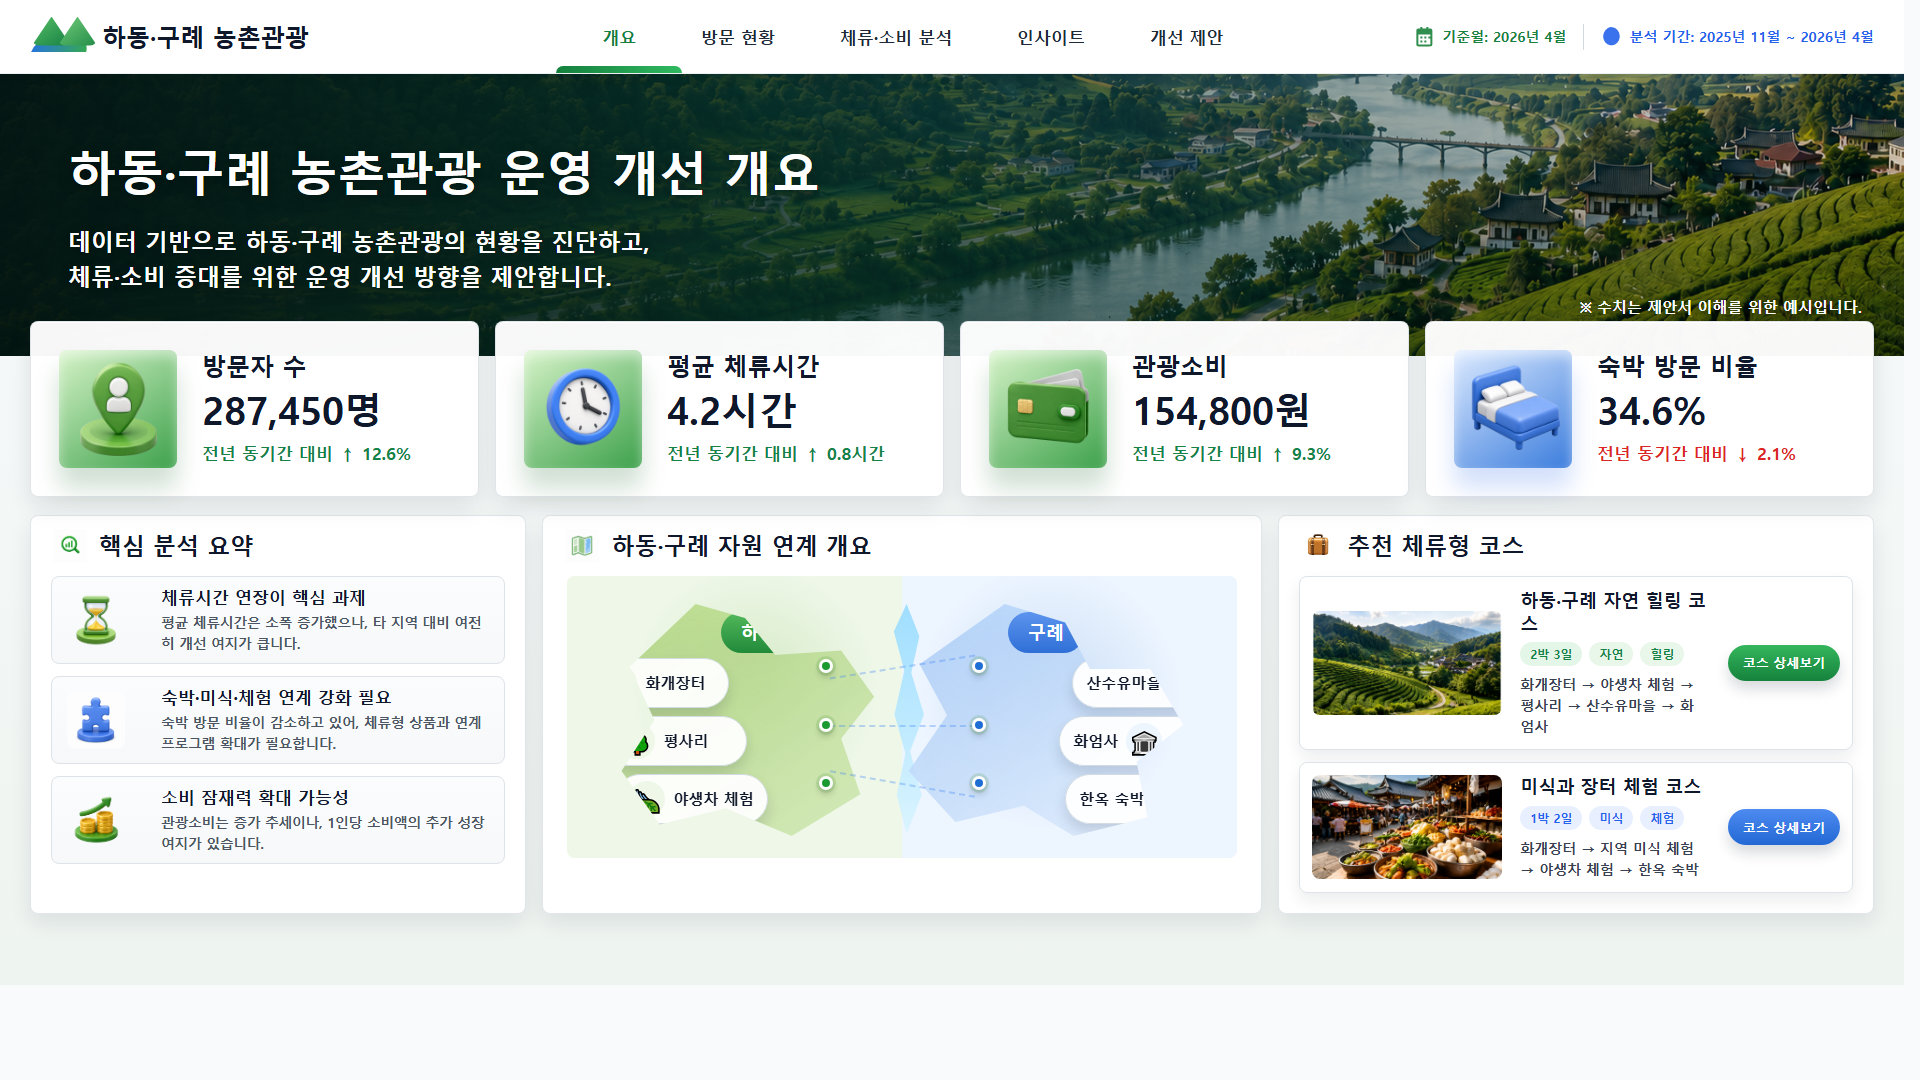
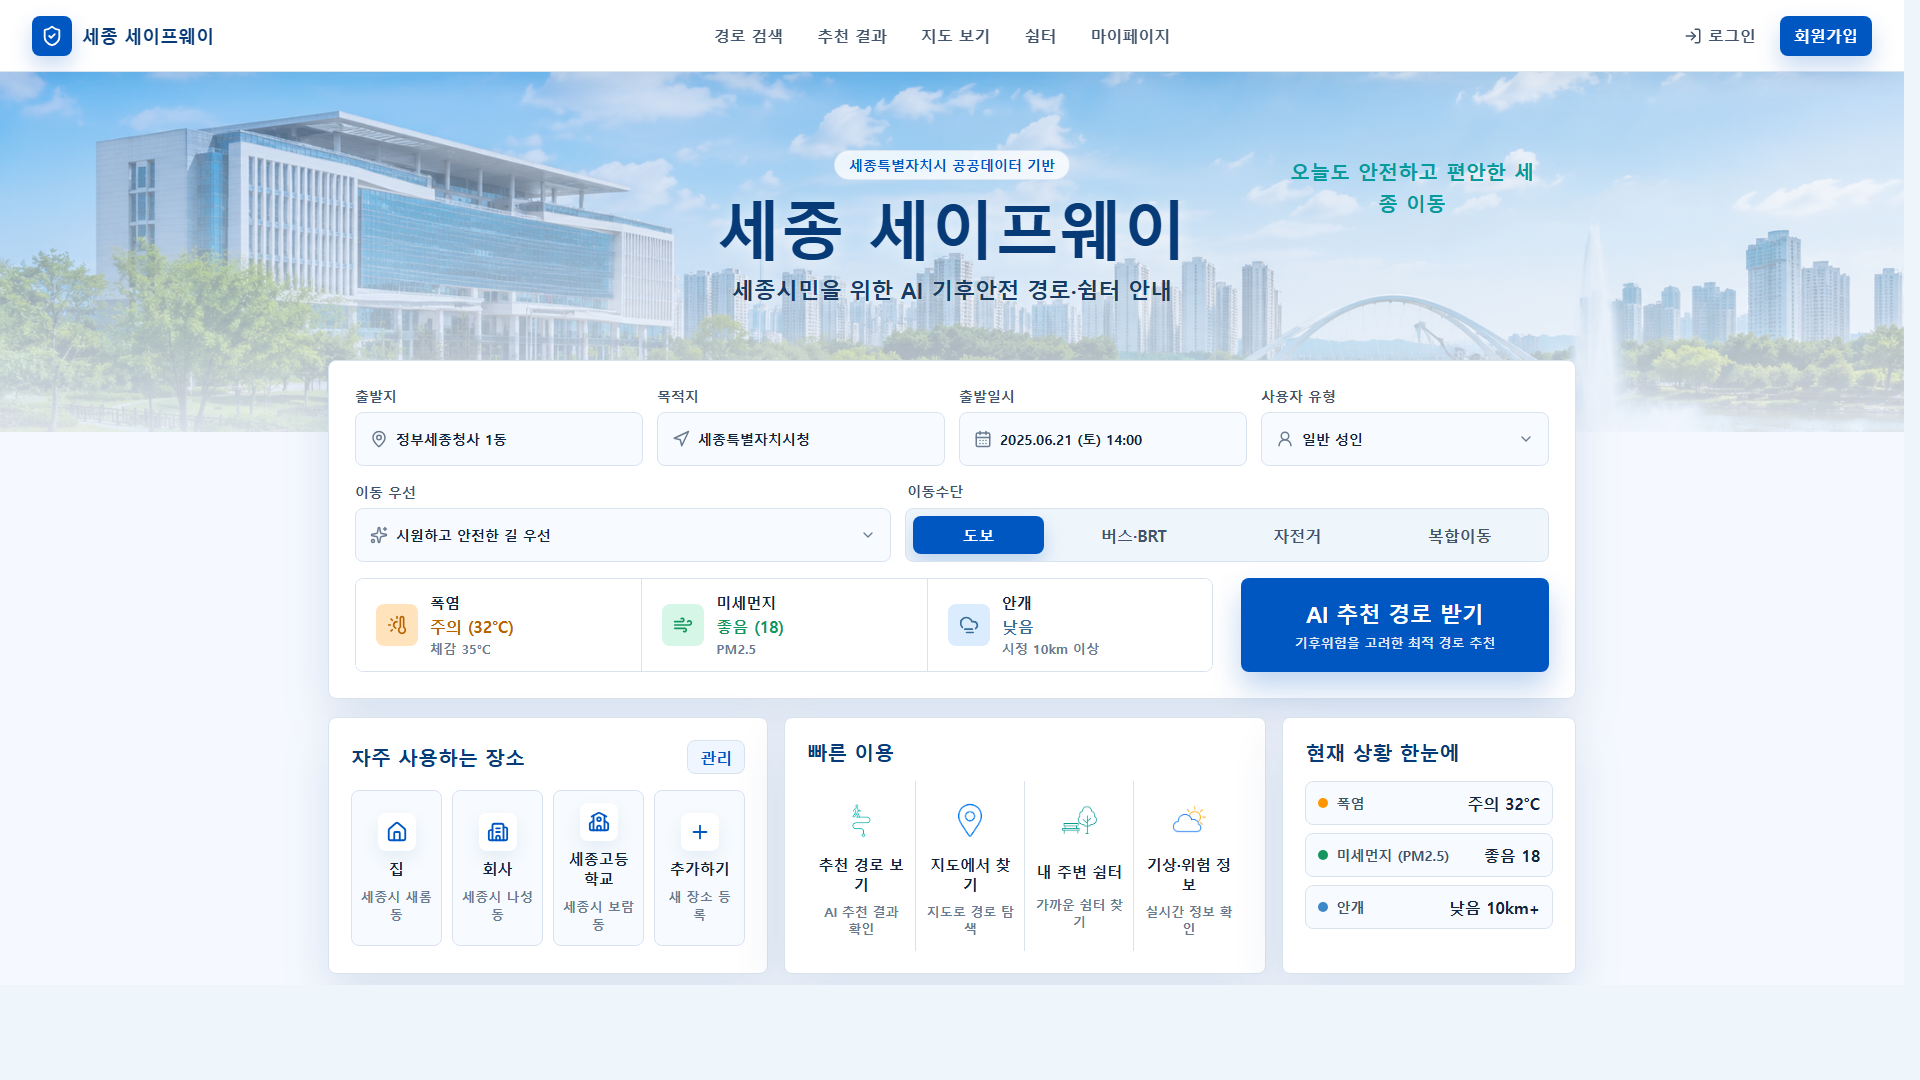
Polish overview dashboard presentation

diff --git a/src/index.css b/src/index.css
@@ -1,6 +1,9 @@
+@import "pretendard/dist/web/variable/pretendardvariable.css";
 @import "tailwindcss";
 
 :root {
+  --font-ui: "Pretendard Variable", Pretendard, "SUIT Variable", SUIT, "Wanted Sans Variable", "Wanted Sans",
+    "Noto Sans KR", "Apple SD Gothic Neo", "Malgun Gothic", sans-serif;
   --page-bg: #f8fafc;
   --card-bg: #ffffff;
   --title: #0f172a;
@@ -11,12 +14,11 @@
   --blue: #2563eb;
   --red: #dc2626;
   --border: #e5e7eb;
-  font-family:
-    Inter, ui-sans-serif, system-ui, -apple-system, BlinkMacSystemFont, "Segoe UI",
-    "Noto Sans KR", "Apple SD Gothic Neo", "Malgun Gothic", sans-serif;
+  font-family: var(--font-ui);
   color: var(--text);
   background: var(--page-bg);
   font-synthesis: none;
+  font-variant-numeric: tabular-nums;
   letter-spacing: 0;
   text-rendering: optimizeLegibility;
   -webkit-font-smoothing: antialiased;
@@ -32,6 +34,7 @@ body {
   min-height: 100vh;
   margin: 0;
   background: var(--page-bg);
+  font-family: var(--font-ui);
 }
 
 button {
@@ -459,6 +462,12 @@ img {
   font-size: 17px;
   font-weight: 900;
   line-height: 1.25;
+  overflow-wrap: anywhere;
+  word-break: keep-all;
+}
+
+.insightItem > div {
+  min-width: 0;
 }
 
 .insightItem p {
@@ -467,6 +476,8 @@ img {
   font-size: 13.5px;
   font-weight: 650;
   line-height: 1.55;
+  overflow-wrap: anywhere;
+  word-break: keep-all;
 }
 
 .resourceMapFrame {
@@ -681,11 +692,13 @@ img {
 
 .courseCard {
   display: grid;
-  grid-template-columns: 190px minmax(0, 1fr) 116px;
+  grid-template-columns: 190px minmax(0, 1fr) 48px;
   gap: 18px;
   align-items: center;
   min-height: 128px;
+  min-width: 0;
   padding: 12px;
+  overflow: hidden;
   background: #fff;
   border: 1px solid #dde3e8;
   border-radius: 8px;
@@ -719,6 +732,7 @@ img {
   font-size: 18px;
   font-weight: 900;
   line-height: 1.25;
+  white-space: nowrap;
 }
 
 .badgeRow {
@@ -757,22 +771,25 @@ img {
   font-size: 14px;
   font-weight: 750;
   line-height: 1.5;
+  overflow-wrap: anywhere;
+  word-break: keep-all;
 }
 
 .courseButton {
-  display: inline-flex;
-  align-items: center;
-  justify-content: center;
-  justify-self: end;
-  width: 112px;
-  min-height: 36px;
-  padding: 0 12px;
+  display: grid;
+  place-items: center;
+  justify-self: center;
+  width: 42px;
+  min-width: 42px;
+  max-width: 42px;
+  height: 42px;
+  min-height: 42px;
+  padding: 0;
   color: #fff;
   border-radius: 999px;
   cursor: pointer;
-  font-size: 13px;
+  font-size: 25px;
   font-weight: 900;
-  white-space: nowrap;
   box-shadow: 0 8px 14px rgba(15, 23, 42, 0.16);
 }
 
@@ -834,7 +851,7 @@ img {
   }
 
   .courseCard {
-    grid-template-columns: 150px minmax(0, 1fr) 112px;
+    grid-template-columns: 150px minmax(0, 1fr) 48px;
   }
 }
 
@@ -1012,30 +1029,70 @@ img {
     font-size: 14px;
   }
 
+  .insightItem {
+    grid-template-columns: 54px minmax(0, 1fr);
+    gap: 11px;
+    min-height: 0;
+    padding: 12px;
+  }
+
+  .insightIcon,
+  .insightIconImage {
+    width: 48px;
+    height: 48px;
+  }
+
+  .insightItem h3 {
+    font-size: 15px;
+    word-break: break-all;
+  }
+
+  .insightItem p {
+    font-size: 12.5px;
+    line-height: 1.5;
+    word-break: break-all;
+  }
+
   .courseCard {
     grid-template-columns: 1fr;
     gap: 12px;
   }
 
   .courseButton {
-    justify-self: stretch;
-    width: 100%;
+    justify-self: end;
+    width: 42px;
   }
 
   .courseImage {
     height: 170px;
   }
 
+  .courseContent h3 {
+    white-space: normal;
+  }
+
+  .courseContent p {
+    word-break: break-all;
+  }
+
   .resourceMapFrame {
-    height: 460px;
+    height: 660px;
     margin: 0 16px 20px;
+  }
+
+  .fallbackMap {
+    background: linear-gradient(180deg, #eef7e8 0%, #eef7e8 50%, #edf5ff 50%, #edf5ff 100%);
+  }
+
+  .fallbackRegion {
+    width: 86%;
+    height: 260px;
   }
 
   .fallbackHadong,
   .fallbackGurye {
     left: 50%;
     right: auto;
-    width: 78%;
     transform: translateX(-50%);
   }
 
@@ -1044,10 +1101,34 @@ img {
   }
 
   .fallbackGurye {
-    top: 285px;
+    top: 360px;
   }
 
-  .fallbackRiver {
+  .fallbackRiver,
+  .mapDot,
+  .mapLine {
     display: none;
+  }
+
+  .fallbackNode {
+    left: 50%;
+    right: auto;
+    min-width: 150px;
+    transform: translateX(-50%);
+  }
+
+  .nodeA,
+  .nodeD {
+    top: 72px;
+  }
+
+  .nodeB,
+  .nodeE {
+    top: 134px;
+  }
+
+  .nodeC,
+  .nodeF {
+    top: 196px;
   }
 }

diff --git a/src/components/CourseCard.tsx b/src/components/CourseCard.tsx
@@ -35,7 +35,7 @@ export function CourseCard({ item }: CourseCardProps) {
         className={`courseButton ${item.buttonTone}`}
         aria-label={`${item.title} 코스 상세보기`}
       >
-        코스 상세보기
+        →
       </button>
     </article>
   )